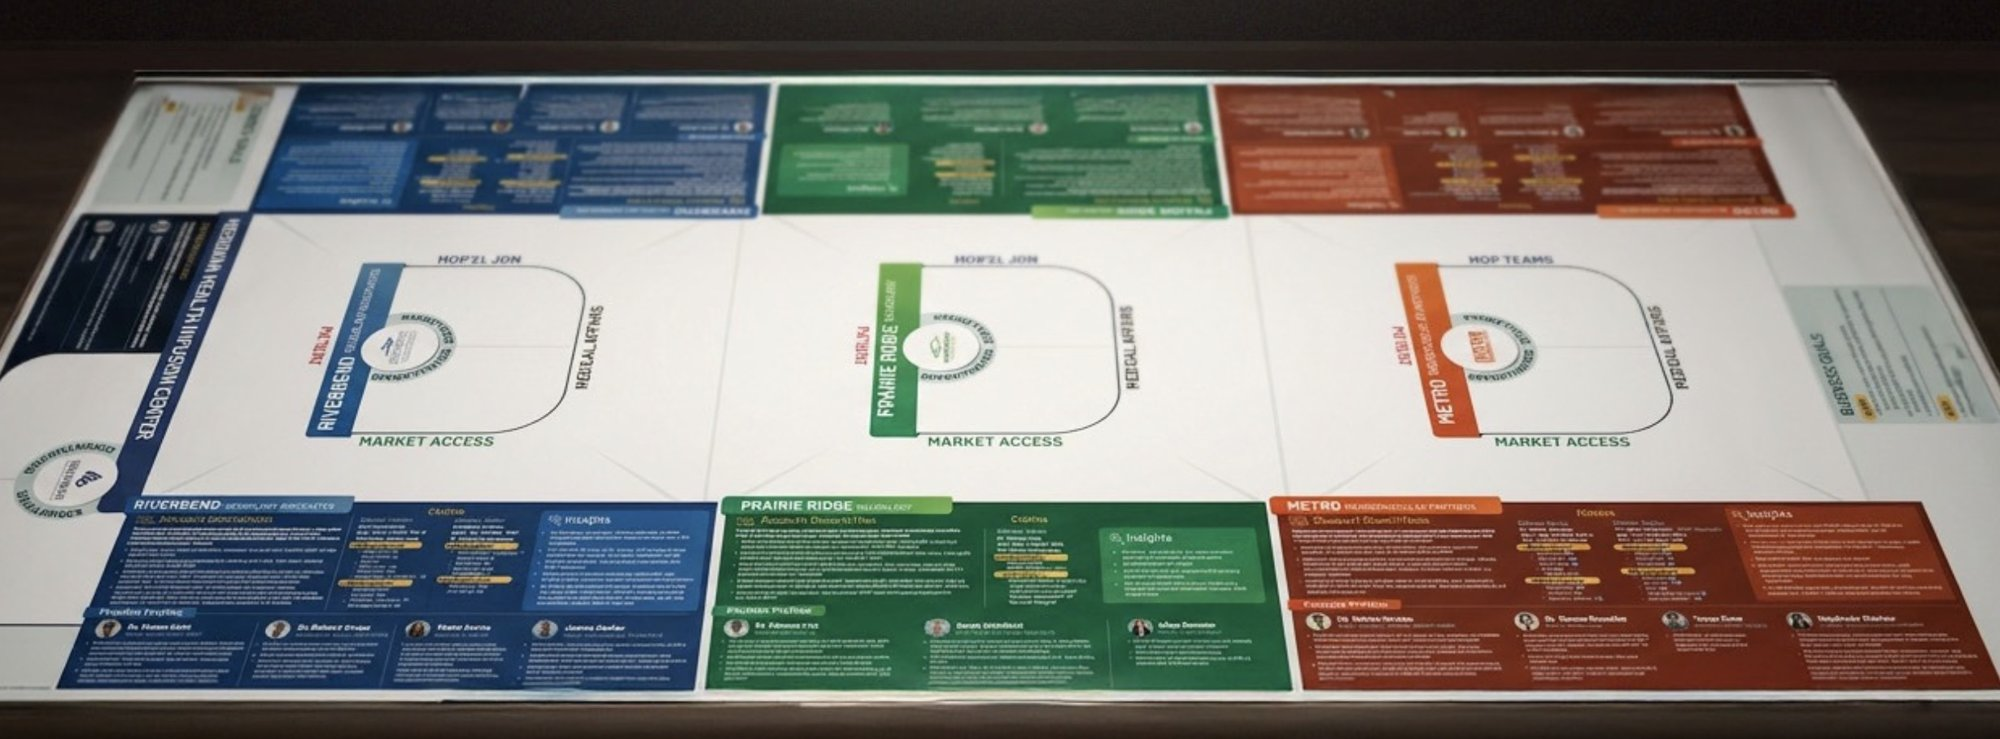
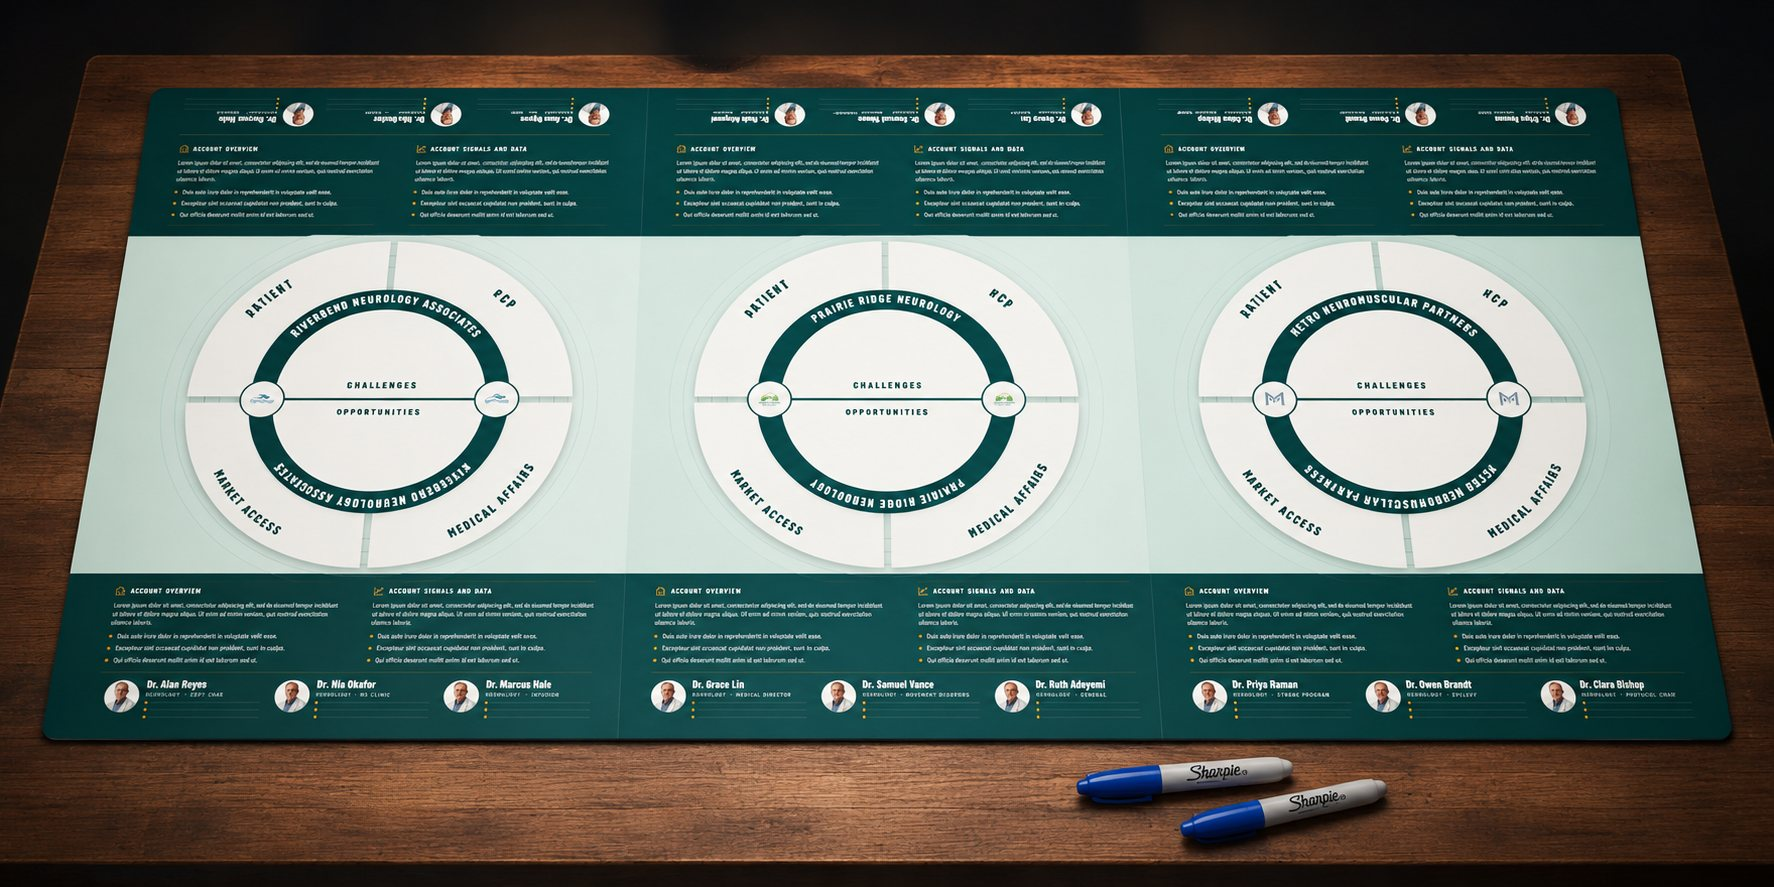
New image for the Activity workmat tile
Claude-Session: https://claude.ai/code/session_018UBqbQGtj4JCJvXUh26TBn

diff --git a/index.html b/index.html
@@ -203,7 +203,7 @@
       <p class="sec-intro">Every lab comes with its own designed materials: workmats, game cards, scenario videos and live leaderboards, all built for that brand and that team.</p>
     </div>
     <div class="montage">
-      <figure class="mtile m-map"><img src="images/activity-workmat.jpg" alt="A large printed activity workmat that teams work on at their table" width="2000" height="739"><button class="mtile-info" type="button" aria-label="About: Activity workmat" aria-haspopup="dialog"><svg viewBox="0 0 10 10" aria-hidden="true"><circle cx="5" cy="1.6" r="1.05" fill="currentColor"/><path d="M5 4.2v4.6" stroke="currentColor" stroke-width="1.7" stroke-linecap="round"/></svg></button><figcaption>Activity workmat</figcaption><p class="mtile-desc" hidden>The board each team plays on. It lays out the account, the functions and the stakeholders, and gives the team one place to build its picture as new intel comes in.</p></figure>
+      <figure class="mtile m-map"><img src="images/activity-workmat.jpg" alt="A printed activity workmat with three account maps, each showing patient, HCP, market access and medical affairs around challenges and opportunities" width="1774" height="887"><button class="mtile-info" type="button" aria-label="About: Activity workmat" aria-haspopup="dialog"><svg viewBox="0 0 10 10" aria-hidden="true"><circle cx="5" cy="1.6" r="1.05" fill="currentColor"/><path d="M5 4.2v4.6" stroke="currentColor" stroke-width="1.7" stroke-linecap="round"/></svg></button><figcaption>Activity workmat</figcaption><p class="mtile-desc" hidden>The board each team plays on. It lays out the account, the functions and the stakeholders, and gives the team one place to build its picture as new intel comes in.</p></figure>
       <figure class="mtile m-video"><img src="images/scenario-video-still.jpg" alt="Still from a scenario video: a physician character at her desk" width="2000" height="1127"><button class="mtile-info" type="button" aria-label="About: Scenario video" aria-haspopup="dialog"><svg viewBox="0 0 10 10" aria-hidden="true"><circle cx="5" cy="1.6" r="1.05" fill="currentColor"/><path d="M5 4.2v4.6" stroke="currentColor" stroke-width="1.7" stroke-linecap="round"/></svg></button><figcaption>Scenario video</figcaption><p class="mtile-desc" hidden>Short character-led videos open each round. They show who the stakeholder is, what just changed and what the team has to decide next.</p></figure>
       <figure class="mtile m-board"><img src="images/live-leaderboard.jpg" alt="Live leaderboard on a big screen showing team standings" width="2000" height="1121"><button class="mtile-info" type="button" aria-label="About: Live leaderboard" aria-haspopup="dialog"><svg viewBox="0 0 10 10" aria-hidden="true"><circle cx="5" cy="1.6" r="1.05" fill="currentColor"/><path d="M5 4.2v4.6" stroke="currentColor" stroke-width="1.7" stroke-linecap="round"/></svg></button><figcaption>Live leaderboard</figcaption><p class="mtile-desc" hidden>Big-screen standings that update round by round. Scores come from the rubric, so every team can see how its decisions are landing.</p></figure>
       <figure class="mtile m-cards"><img src="images/game-cards.jpg" alt="Custom game cards: stakeholder role badges and a Who Am I? quiz card" width="2000" height="1108"><button class="mtile-info" type="button" aria-label="About: Game cards" aria-haspopup="dialog"><svg viewBox="0 0 10 10" aria-hidden="true"><circle cx="5" cy="1.6" r="1.05" fill="currentColor"/><path d="M5 4.2v4.6" stroke="currentColor" stroke-width="1.7" stroke-linecap="round"/></svg></button><figcaption>Game cards</figcaption><p class="mtile-desc" hidden>Role cards and quiz cards written for the brand and the account. Teams use them to identify stakeholders, ask sharper questions and unlock intel.</p></figure>

diff --git a/assets/site.css b/assets/site.css
@@ -545,7 +545,7 @@ main.wrap { padding-top: 12px; padding-bottom: 12px; display: flex; flex-directi
   .mtile-info { top: 10px; right: 10px; }
 }
 @media (prefers-reduced-motion: reduce) { .mdialog[open] { animation: none; } }
-.m-map { grid-area: map; } .m-map img { object-position: center 55%; }
+.m-map { grid-area: map; } .m-map img { object-position: center 50%; }
 .m-video { grid-area: video; } .m-video img { object-position: 70% center; }
 .m-board { grid-area: board; } .m-board img { object-position: left top; }
 .m-cards { grid-area: cards; } .m-cards img { object-position: 30% center; }
